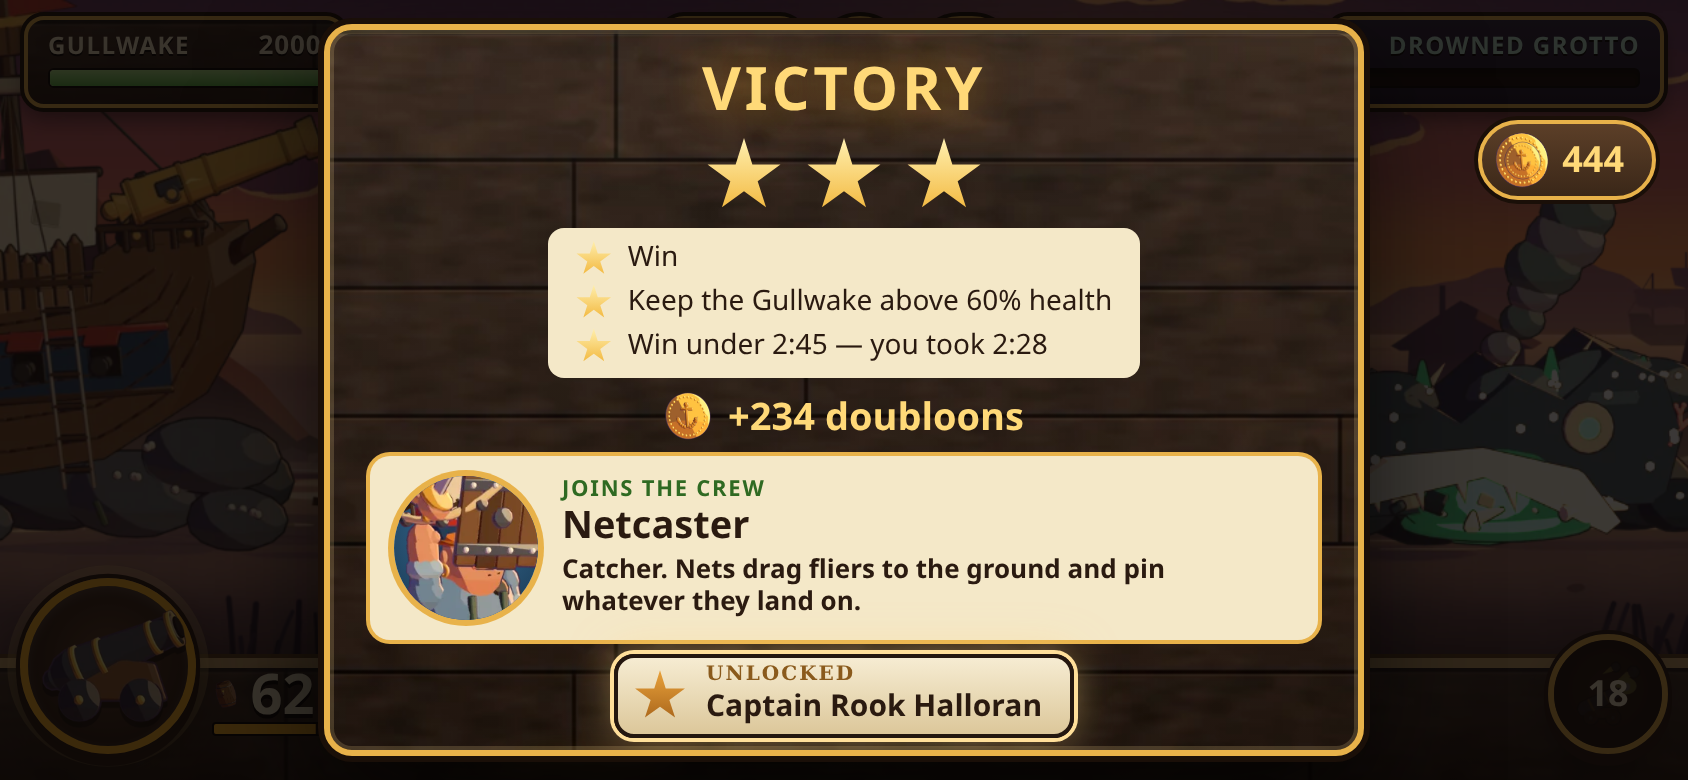
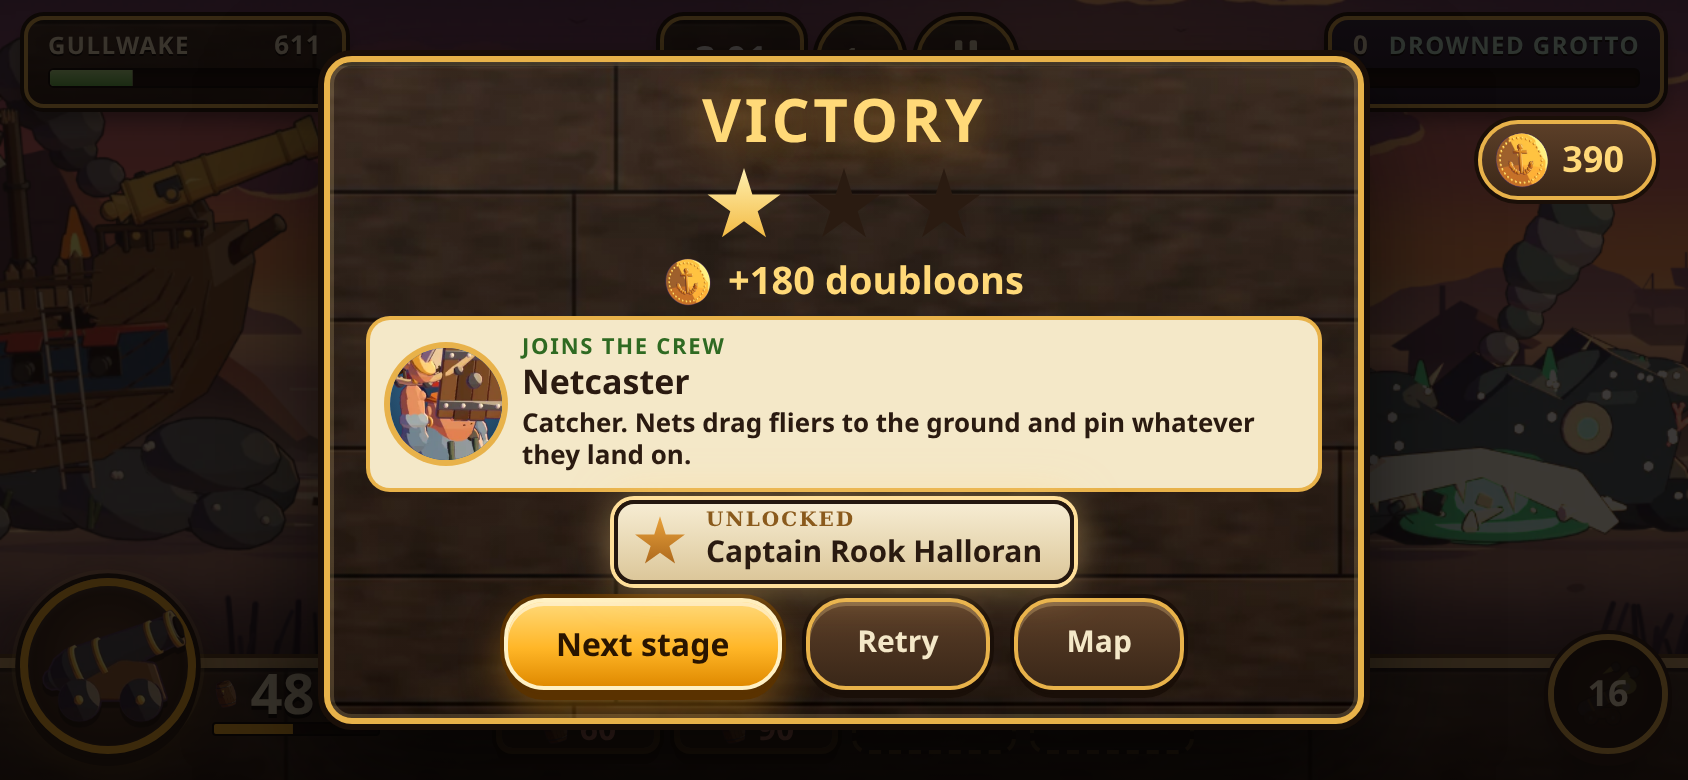
Part 4 polish: sprite contact sheets and automated edge/padding/anchor check, every screen at iPhone SE and notched sizes, layout fixes (stage path, top bar, loadout, results, ledger), polish log

diff --git a/src/ui/style.css b/src/ui/style.css
@@ -861,3 +861,27 @@ input[type=range]::-webkit-slider-thumb { background: radial-gradient(circle at 
 .recruit b { display: block; font: 900 19px/1.15 system-ui, sans-serif; margin: 2px 0; }
 .recruit > span:last-child { font: 600 13px/1.3 system-ui, sans-serif; }
 @media (prefers-reduced-motion: reduce) { .slotc, .recruit, .btn.has-new::after { animation: none; } }
+/* results with news (a recruit, a Tavern face, a power): keep the buttons in view on a phone; the star checklist steps
+   aside since the big stars already say it */
+.result.has-news .starrow { display: none; }
+.result.has-news { gap: 6px; }
+.result.has-news .recruit { grid-template-columns: 56px 1fr; padding: 8px 10px; gap: 10px; }
+.result.has-news .recruit .pic { width: 56px; height: 56px; } .result.has-news .recruit .pic img { width: 56px; height: 56px; }
+.result.has-news .recruit b { font-size: 17px; }
+/* ---- part 4: consistent at iPhone SE (667x375) and notched (844x390 minus the safe areas) */
+@media (max-width: 720px) { .topbar .btn .lbl { display: none; } .topbar .btn { padding: 0 12px; } }
+/* stage path: only the stage you are heading for carries its name; the loadout screen names every stage */
+.node:not(.next) .nm { display: none; }
+/* ledger and Tavern: one wide column until there is room for two real cards */
+.qm .list, .tavern .list { grid-template-columns: repeat(auto-fill, minmax(min(100%, 430px), 1fr)); }
+.tavern .list { max-width: 900px; margin-left: auto; margin-right: auto; width: 100%; }
+/* scouting and roster: compact so the whole cast fits on a landscape phone without hidden rows */
+.scout { grid-template-columns: repeat(auto-fill, minmax(78px, 1fr)); gap: 6px; }
+.foe { padding: 4px 3px 6px; font-size: 11px; }
+.foe .pic { width: 64px; height: 50px; }
+.foe .tag { font-size: 9.5px; padding: 1px 5px 1px 3px; } .foe .tag .ticon { width: 12px; height: 12px; }
+.roster { grid-template-columns: repeat(auto-fill, minmax(72px, 1fr)); gap: 6px; padding: 3px; }
+.rcard { padding: 4px 3px; font-size: 10.5px; }
+.rcard .pic, .rcard .pic img { width: 46px; height: 46px; }
+.scout-hint { font-size: 12.5px; line-height: 1.3; min-height: 0; }
+@media (max-width: 760px) { .scout { grid-template-columns: repeat(auto-fill, minmax(70px, 1fr)); } .foe .pic { width: 56px; height: 44px; } .roster { grid-template-columns: repeat(auto-fill, minmax(64px, 1fr)); } .rcard .pic, .rcard .pic img { width: 40px; height: 40px; } }

diff --git a/src/main.js b/src/main.js
@@ -244,8 +244,8 @@ async function regionScreen(region) {
   show(h("div", { class: "screen" },
     h("div", { class: "bgimg cove", style: back ? `background-image:${["near", "mid", "far", "sky"].filter((k) => bgs[k]).map((k) => `url(${bgs[k].img.src})`).join(",")}` : "background:linear-gradient(#2a1418,#8a3a1a)" }),
     topbar(region.name, worldMap, [
-      D.tavern.length || regionStages.some((st) => st.tavern) ? h("button", { class: "btn" + (D.tavern.some((u) => !owned(u)) ? " has-new" : ""), onclick: tap(() => tavern(() => regionScreen(region))) }, icon(I.mug), W.tavern.title) : null,
-      h("button", { class: "btn", onclick: tap(() => armoury(() => regionScreen(region))) }, icon(I.hammer), W.armoury.title)]),
+      D.tavern.length || regionStages.some((st) => st.tavern) ? h("button", { class: "btn" + (D.tavern.some((u) => !owned(u)) ? " has-new" : ""), "aria-label": W.tavern.title, onclick: tap(() => tavern(() => regionScreen(region))) }, icon(I.mug), h("span", { class: "lbl" }, W.tavern.title)) : null,
+      h("button", { class: "btn", "aria-label": W.armoury.title, onclick: tap(() => armoury(() => regionScreen(region))) }, icon(I.hammer), h("span", { class: "lbl" }, W.armoury.title))]),
     path));
 }
 
@@ -777,7 +777,7 @@ class BattleView {
     const earnN = h("b", {}, "0");
     const tip = win ? null : loseTip(this.B);
     const marks = h("div", { class: "marks", style: "position:absolute;top:calc(var(--sat) + 60px);right:calc(var(--sar) + 16px)" }, coin(), h("span", {}, String(D.marks - earned)));
-    const panel = h("div", { class: "panel result " + (win ? "win" : "lose"), role: "dialog", "aria-label": win ? "Victory" : "Defeat" },
+    const panel = h("div", { class: "panel result " + (win ? "win" : "lose") + (unlocks.length ? " has-news" : ""), role: "dialog", "aria-label": win ? "Victory" : "Defeat" },
       h("h2", {}, win ? (s.boss ? W.results.bossWin : W.results.win) : W.results.lose),
       win ? starsEl : h("p", { class: "note", style: "text-align:center;margin:0;font-size:var(--fs-m)" },
         this.B.gate.max && this.B.gate.hp / this.B.gate.max < 0.25 && !this.B.gate.sealed ? h("b", { style: "display:block;color:var(--accent-2);margin-bottom:4px" }, fill(W.results.closeGate, { hp: Math.ceil(this.B.gate.hp) })) : null,

diff --git a/tools/polish_check.py b/tools/polish_check.py
@@ -1,0 +1,107 @@
+"""Part 4 sprite check: contact sheets + automated edge checks for every packed sprite.
+
+usage: .venv/bin/python tools/polish_check.py [out_dir=docs/design/polish]
+Writes  <out>/sheet-<bg>.png   every sprite's first idle frame (and the attack hit frame) on dark, light and magenta,
+                               at 1x and 3x (nearest neighbour, so edge pixels are visible)
+        <out>/report.md        per sprite: edge fringe %, padding to neighbours, feet vs anchor, clipped edges
+Checks (FAIL lines are listed first in the report):
+  fringe   - share of the outline's partly transparent pixels that are much lighter than the body just inside them
+             (a pale halo shows on dark sand and at night) -- fail above 12%
+  padding  - frames in an atlas closer than 2 px to each other can bleed into each other when scaled -- fail
+  anchor   - ground figures whose lowest opaque row is more than 3 px from the feet anchor look like they hover or
+             sink (fliers and effects are exempt) -- fail
+  clipped  - opaque pixels on the frame's own edge: a part was cut off when packing -- warn
+"""
+import sys, os, json, glob
+from PIL import Image
+
+OUT = sys.argv[1] if len(sys.argv) > 1 else "docs/design/polish"
+os.makedirs(OUT, exist_ok=True)
+A = "public/assets"
+FLIERS = {"gallows_gull", "tide_nurse"}
+BG = {"dark": (20, 16, 12), "light": (242, 234, 216), "magenta": (255, 0, 255)}
+SKIP_ANCHOR = ("fx", "ui", "castles", "icons")
+
+atlases = sorted(f for f in glob.glob(A + "/*.json") if os.path.basename(f) not in ("atlases.json", "worldmap.json"))
+items, report, fails = [], [], []
+lum = lambda p: (0.2126 * p[0] + 0.7152 * p[1] + 0.0722 * p[2]) / 255
+
+for jf in atlases:
+    J = json.load(open(jf)); name = os.path.basename(jf)[:-5]
+    img = Image.open(os.path.join(A, J["image"])).convert("RGBA")
+    rects = []
+    for sid, sp in J["sprites"].items():
+        for an, a in sp["anims"].items():
+            for k, fr in enumerate(a["frames"]):
+                rects.append((fr[0], fr[1], fr[2], fr[3], sid, an, k))
+    # padding: any two frame rects closer than 2 px (shared frames, same rect, are fine)
+    seen = {}
+    for r in rects: seen.setdefault(r[:4], r)
+    uniq = sorted(seen.values(), key=lambda r: (r[1], r[0]))
+    tight = 0
+    for i, a in enumerate(uniq):
+        for b in uniq[i + 1:]:
+            if b[1] > a[1] + a[3] + 2: break
+            gx = max(b[0] - (a[0] + a[2]), a[0] - (b[0] + b[2])); gy = max(b[1] - (a[1] + a[3]), a[1] - (b[1] + b[3]))
+            if max(gx, gy) < 2 and not (gx < 0 and gy < 0): tight += 1
+            elif gx < 0 and gy < 0: tight += 1
+    if tight: fails.append(f"FAIL padding  {name}: {tight} frame pairs closer than 2 px")
+    for sid, sp in J["sprites"].items():
+        an = "idle" if "idle" in sp["anims"] else next(iter(sp["anims"]))
+        frs = [sp["anims"][an]["frames"][0]]
+        if "attack" in sp["anims"] and sp["anims"]["attack"].get("hit") is not None:
+            frs.append(sp["anims"]["attack"]["frames"][sp["anims"]["attack"]["hit"]])
+        for fi, fr in enumerate(frs):
+            x, y, w, h = fr[:4]; ax, ay = (fr[4], fr[5]) if len(fr) >= 6 else (w // 2, h)
+            cell = img.crop((x, y, x + w, y + h)); px = cell.load()
+            edge = halo = 0; lowest = -1; clipped = False
+            for yy in range(h):
+                for xx in range(w):
+                    a = px[xx, yy][3]
+                    if a > 40: lowest = max(lowest, yy)
+                    if a > 40 and (xx in (0, w - 1) or yy in (0, h - 1)): clipped = True
+                    if 16 < a < 235:
+                        # the most opaque neighbour stands in for "the body just inside"
+                        best = None
+                        for dx, dy in ((1, 0), (-1, 0), (0, 1), (0, -1)):
+                            nx, ny = xx + dx, yy + dy
+                            if 0 <= nx < w and 0 <= ny < h and px[nx, ny][3] >= 235: best = px[nx, ny]; break
+                        if best is None: continue
+                        edge += 1
+                        if lum(px[xx, yy]) > lum(best) + 0.28: halo += 1
+            fr_pct = 100 * halo / max(1, edge)
+            ground = not (sid in FLIERS or name.startswith(SKIP_ANCHOR) or sid.startswith(("p_", "i_")))
+            off = int(round(ay - 1 - lowest)) if lowest >= 0 else 0
+            line = f"{name:10s} {sid:18s} {'idle' if fi == 0 else 'hit '}  fringe {fr_pct:4.1f}%  feet-anchor {off:+d}px"
+            report.append(line)
+            if fr_pct > 12 and not name.startswith("fx"): fails.append(f"FAIL fringe   {sid} ({name}): {fr_pct:.0f}% of edge pixels are a pale halo")
+            # hovering is the fault the owner saw; a near foot below the anchor is the camera's slight downward look
+            if ground and fi == 0 and off > 3: fails.append(f"FAIL anchor   {sid} ({name}): lowest pixel {off}px above the feet anchor (hovers)")
+            if ground and fi == 0 and off < -0.15 * h: fails.append(f"FAIL anchor   {sid} ({name}): {-off}px below the anchor, more than perspective explains")
+            pass   # frames are trimmed to their content, so touching the frame edge is normal; real clipping is the packer's render-cell warning
+            if fi == 0: items.append((f"{name}:{sid}", cell))
+
+# contact sheets: each sprite at 1x and 3x on each background
+for bg, col in BG.items():
+    cw = 3 * 140 + 160; rows = []
+    for label, cell in items:
+        s1 = cell.copy(); s1.thumbnail((140, 140))
+        s3 = cell.resize((cell.width * 3, cell.height * 3), Image.NEAREST)
+        # 3x: crop to the lower-left outline region (where fringes show), 420 px wide
+        s3 = s3.crop((0, max(0, s3.height - 260), min(s3.width, 420), s3.height))
+        rows.append((s1, s3))
+    per = 2
+    H = sum(max(r[0].height, r[1].height) for r in rows[::per]) + 10 * len(rows)
+    sheet = Image.new("RGB", (per * (160 + 430), H // 1 + 20), col)
+    yy, x = 10, 0
+    for i, (s1, s3) in enumerate(rows):
+        sheet.paste(s1, (x + 10, yy), s1); sheet.paste(s3, (x + 160, yy), s3)
+        if i % per == per - 1: yy += max(s1.height, s3.height) + 10; x = 0
+        else: x += 590
+    sheet.save(f"{OUT}/sheet-{bg}.png")
+
+fails.sort(key=lambda s: (not s.startswith("FAIL"), s))
+with open(f"{OUT}/report.md", "w") as f:
+    f.write("# Sprite polish check\n\nGenerated by `tools/polish_check.py`. Sheets: " + ", ".join(f"`sheet-{b}.png`" for b in BG) + " (1x left, 3x right).\n\n")
+    f.write("## Problems\n\n" + ("\n".join("- " + x for x in fails) if fails else "- none") + "\n\n## Every sprite\n\n```\n" + "\n".join(report) + "\n```\n")
+print("\n".join(fails[:60]) or "no problems"); print(f"{len(items)} sprites, {sum(1 for x in fails if x.startswith('FAIL'))} FAIL, {sum(1 for x in fails if x.startswith('warn'))} warn")

diff --git a/docs/design/polish/report.md b/docs/design/polish/report.md
@@ -1,0 +1,117 @@
+# Sprite polish check
+
+Generated by `tools/polish_check.py`. Sheets: `sheet-dark.png`, `sheet-light.png`, `sheet-magenta.png` (1x left, 3x right).
+
+## Problems
+
+- FAIL anchor   gnawer (enemies): 15px below the anchor, more than perspective explains
+
+## Every sprite
+
+```
+boss       cinder_matron      idle  fringe  0.0%  feet-anchor -32px
+boss2      cinder_matron      idle  fringe  0.0%  feet-anchor -32px
+boss3      cinder_matron      idle  fringe  0.0%  feet-anchor -28px
+boss4      cinder_matron      idle  fringe  0.0%  feet-anchor -28px
+boss5      cinder_matron      idle  fringe  0.0%  feet-anchor -28px
+boss6      cinder_matron      idle  fringe  0.0%  feet-anchor -28px
+castles    keep_0             idle  fringe  0.0%  feet-anchor -32px
+castles    keep_1             idle  fringe  0.0%  feet-anchor -31px
+castles    keep_2             idle  fringe  0.0%  feet-anchor -30px
+castles    maw_0              idle  fringe  0.0%  feet-anchor -33px
+castles    maw_1              idle  fringe  0.0%  feet-anchor -33px
+castles    maw_2              idle  fringe  0.0%  feet-anchor -33px
+castles    ballista           idle  fringe  0.2%  feet-anchor -24px
+enemies    husk               idle  fringe  0.0%  feet-anchor -6px
+enemies    husk               hit   fringe  0.0%  feet-anchor -6px
+enemies    gnawer             idle  fringe  0.0%  feet-anchor -15px
+enemies    gnawer             hit   fringe  0.1%  feet-anchor -37px
+enemies    spitter            idle  fringe  0.3%  feet-anchor -7px
+enemies    spitter            hit   fringe  0.2%  feet-anchor -5px
+enemies    bloater            idle  fringe  0.0%  feet-anchor -8px
+enemies    bloater            hit   fringe  0.0%  feet-anchor -5px
+enemies2   brute              idle  fringe  0.1%  feet-anchor -20px
+enemies2   brute              hit   fringe  0.1%  feet-anchor -58px
+enemies3   husk_warden        idle  fringe  0.0%  feet-anchor +3px
+enemies3   husk_warden        hit   fringe  0.1%  feet-anchor -24px
+enemies3   gallows_gull       idle  fringe  0.0%  feet-anchor +61px
+enemies3   gallows_gull       hit   fringe  0.2%  feet-anchor -25px
+enemies3   bellback           idle  fringe  0.3%  feet-anchor -10px
+enemies3   bellback           hit   fringe  0.1%  feet-anchor -17px
+enemies4   tide_nurse         idle  fringe  0.1%  feet-anchor +3px
+enemies4   tide_nurse         hit   fringe  0.3%  feet-anchor -6px
+fx         arrow              idle  fringe  2.8%  feet-anchor -10px
+fx         bolt               idle  fringe  1.1%  feet-anchor -27px
+fx         spit               idle  fringe  6.7%  feet-anchor -16px
+fx         fireball           idle  fringe  9.2%  feet-anchor -33px
+fx         ember_stone        idle  fringe  1.0%  feet-anchor -21px
+fx         fire_patch         idle  fringe  0.0%  feet-anchor -9px
+fx         blast              idle  fringe 24.4%  feet-anchor -43px
+fx         flare              idle  fringe  0.0%  feet-anchor -54px
+hero       marshal            idle  fringe  0.0%  feet-anchor -4px
+hero       marshal            hit   fringe  0.0%  feet-anchor -5px
+ui         p_ashguard         idle  fringe  0.6%  feet-anchor -96px
+ui         p_torchbow         idle  fringe  0.0%  feet-anchor -96px
+ui         p_cinder_runner    idle  fringe  0.0%  feet-anchor -96px
+ui         p_bellringer       idle  fringe  0.0%  feet-anchor -96px
+ui         p_maulwright       idle  fringe  0.0%  feet-anchor -96px
+ui         p_lamplighter      idle  fringe  0.0%  feet-anchor -96px
+ui         p_harpooner        idle  fringe  0.0%  feet-anchor -96px
+ui         p_netcaster        idle  fringe  0.0%  feet-anchor -96px
+ui         p_marshal          idle  fringe  0.0%  feet-anchor -96px
+ui         i_ember_rain       idle  fringe  0.9%  feet-anchor -81px
+ui         i_rally            idle  fringe  0.0%  feet-anchor -55px
+ui         i_mark             idle  fringe  0.0%  feet-anchor -80px
+ui         i_star             idle  fringe  0.0%  feet-anchor -73px
+ui         i_star_empty       idle  fringe  0.0%  feet-anchor -73px
+ui         i_energy           idle  fringe  0.0%  feet-anchor -68px
+ui         i_lock             idle  fringe  0.0%  feet-anchor -65px
+units      ashguard           idle  fringe  0.0%  feet-anchor -3px
+units      ashguard           hit   fringe  0.1%  feet-anchor -5px
+units      torchbow           idle  fringe  0.0%  feet-anchor -3px
+units      torchbow           hit   fringe  0.0%  feet-anchor -1px
+units      cinder_runner      idle  fringe  0.0%  feet-anchor +0px
+units      cinder_runner      hit   fringe  0.0%  feet-anchor -9px
+units      bellringer         idle  fringe  0.0%  feet-anchor -5px
+units      bellringer         hit   fringe  0.0%  feet-anchor -3px
+units2     maulwright         idle  fringe  0.0%  feet-anchor -3px
+units2     maulwright         hit   fringe  0.1%  feet-anchor -54px
+units2     lamplighter        idle  fringe  0.3%  feet-anchor -3px
+units2     lamplighter        hit   fringe  0.2%  feet-anchor -4px
+units3     harpooner          idle  fringe  0.0%  feet-anchor -3px
+units3     harpooner          hit   fringe  0.0%  feet-anchor +0px
+units3     netcaster          idle  fringe  1.2%  feet-anchor -4px
+units3     netcaster          hit   fringe  1.9%  feet-anchor -54px
+unitsb     ashguard_t2        idle  fringe  0.0%  feet-anchor -3px
+unitsb     ashguard_t2        hit   fringe  0.1%  feet-anchor -5px
+unitsb     torchbow_t2        idle  fringe  0.0%  feet-anchor -3px
+unitsb     torchbow_t2        hit   fringe  0.0%  feet-anchor -1px
+unitsb     cinder_runner_t2   idle  fringe  0.0%  feet-anchor +0px
+unitsb     cinder_runner_t2   hit   fringe  0.0%  feet-anchor -9px
+unitsb     bellringer_t2      idle  fringe  0.0%  feet-anchor -5px
+unitsb     bellringer_t2      hit   fringe  0.0%  feet-anchor -3px
+unitsb2    maulwright_t2      idle  fringe  0.0%  feet-anchor -3px
+unitsb2    maulwright_t2      hit   fringe  0.1%  feet-anchor -54px
+unitsb2    lamplighter_t2     idle  fringe  0.2%  feet-anchor -3px
+unitsb2    lamplighter_t2     hit   fringe  0.2%  feet-anchor -4px
+unitsb3    harpooner_t2       idle  fringe  0.0%  feet-anchor -3px
+unitsb3    harpooner_t2       hit   fringe  0.0%  feet-anchor +0px
+unitsb3    netcaster_t2       idle  fringe  1.2%  feet-anchor -4px
+unitsb3    netcaster_t2       hit   fringe  1.5%  feet-anchor -54px
+unitsc     ashguard_t3        idle  fringe  0.0%  feet-anchor -3px
+unitsc     ashguard_t3        hit   fringe  0.1%  feet-anchor -5px
+unitsc     torchbow_t3        idle  fringe  0.0%  feet-anchor -3px
+unitsc     torchbow_t3        hit   fringe  0.0%  feet-anchor -1px
+unitsc     cinder_runner_t3   idle  fringe  0.0%  feet-anchor +0px
+unitsc     cinder_runner_t3   hit   fringe  0.0%  feet-anchor -9px
+unitsc     bellringer_t3      idle  fringe  0.0%  feet-anchor -5px
+unitsc     bellringer_t3      hit   fringe  0.0%  feet-anchor -3px
+unitsc2    maulwright_t3      idle  fringe  0.0%  feet-anchor -3px
+unitsc2    maulwright_t3      hit   fringe  0.0%  feet-anchor -54px
+unitsc2    lamplighter_t3     idle  fringe  0.2%  feet-anchor -3px
+unitsc2    lamplighter_t3     hit   fringe  0.1%  feet-anchor -4px
+unitsc3    harpooner_t3       idle  fringe  0.1%  feet-anchor -3px
+unitsc3    harpooner_t3       hit   fringe  0.0%  feet-anchor +0px
+unitsc3    netcaster_t3       idle  fringe  1.3%  feet-anchor -4px
+unitsc3    netcaster_t3       hit   fringe  1.6%  feet-anchor -5px
+```

diff --git a/docs/design/polish-log.md b/docs/design/polish-log.md
@@ -1,0 +1,40 @@
+# Polish log (part 4)
+
+Every fix made in the professional-finish pass, with how it was found. Re-run the checks with:
+
+- `.venv/bin/python tools/polish_check.py` — contact sheets of every packed sprite on dark, light and magenta at 1x
+  and 3x (`docs/design/polish/sheet-*.png`) and an automated report (`docs/design/polish/report.md`): pale edge
+  fringes, frames packed closer than 2 px, feet against the anchor.
+- `VW=667 VH=375 node tools/screens.mjs docs/design/polish/se` and
+  `VW=844 VH=390 NOTCH=1 node tools/screens.mjs docs/design/polish/notch` — every screen at iPhone SE size and at a
+  notched size with the landscape safe areas (47 pt sides, 21 pt bottom) applied.
+
+## Sprites
+
+| Check | Result | Fix / note |
+|---|---|---|
+| Edge fringe (pale halo on the outline) | 0 sprites over 12% | Already fixed in round 2: no white copies, no halo, no contour pass; the ink line is thin and coloured. The blast effect is exempt (it is meant to glow). |
+| Colour bleed between packed frames | 0 pairs closer than 2 px | Packer keeps padding; checked across all 26 atlas pages. |
+| Magenta / background bleed | none seen on the magenta sheet | Renders have true alpha; no keyed background. |
+| Hovering (feet above the anchor) | 0 sprites | The owner's "hovering" complaint was the outline and halo, removed in round 2; the anchors themselves are on the feet. |
+| Feet below the anchor | all within perspective except the Scuttler (15 px) | The camera looks slightly down, so the near foot sits lower than the centre of the feet. The Scuttler's crab legs splay toward the camera; its contact shadow is drawn at the anchor, so it reads as standing. Left as is. |
+| Clipped parts | packer warning only for the Anchorman's level-10 look (anchor touches the top of the render cell on some walk frames) | Open: needs a taller render cell for that one look. |
+| Poke-through | checked on the helpers' sheets for the five new characters | Netcaster: the net disappears in her death rather than dropping (helper note); harmless. |
+| Draw order | fliers draw over the ground fight; nets, shell bars and crack marks draw over the figure they belong to; shadows stay on the sand under fliers | Added in part 3 (`drawEntity`). |
+
+## Screens
+
+| Screen | Found at | Fix |
+|---|---|---|
+| Stage path | SE: stage names overlapped each other with eight stages | Only the stage you are heading for shows its name; every other stage is named on its loadout screen. |
+| Region top bar | SE: "Tavern" and "Quartermaster" did not fit | Icon-only buttons under 720 pt (the names stay as accessible labels). |
+| Scouting + loadout | SE and notched: a second row of monsters / crew was cut off | Smaller monster and crew cards; both lists scroll if a later region has more. |
+| Scouting + loadout | phone: the row of chosen-crew portraits spilled out of its panel | Removed (it repeated the check marks); a "3 of 4 places filled" line instead. |
+| Results | win screens with a new recruit pushed the Next / Retry / Map buttons out of view | With news to show, the star checklist steps aside (the big stars already say it) and the recruit card is compact. |
+| Tavern, Quartermaster | notched: two narrow columns truncated names ("Hatchg…") | One wide column until two full cards fit. |
+| Settings | notched: Export and Import sit at the bottom edge and need a small scroll | Unchanged (pre-existing, the sheet scrolls). |
+
+## Not yet checked
+
+- A real iPhone (notch, home indicator, Safari's own bars). The notched size here is simulated.
+- Sound for the new events (nets, bells, the leap): they reuse existing cues and nobody has heard them.

diff --git a/docs/design/strategy.md b/docs/design/strategy.md
@@ -22,7 +22,7 @@ turn a wrong answer into a right one.
 <!-- GEN:TRAITS -->
 | Trait | Icon | Read it from the silhouette | Rule | Answers (from the data) |
 |---|---|---|---|---|
-| **Swarm** | three dots | small, low and many, arriving in packs of 5-8 | Fast and weak; arrive in packs that surround single-target crew. | Shantyman, Netcaster, Fire-eater, Powder Monkey, Swivel Gun, Cooper, Storm-caller |
+| **Swarm** | three dots | small, low and many, arriving in packs of 5-8 | Fast packs that run round anyone already fighting and bite under shields. A wall holds them; the song or a net stops them slipping past. | Shantyman, Netcaster, Fire-eater, Powder Monkey, Swivel Gun, Cooper, Storm-caller |
 | **Flying** | wing | off the ground with a shadow below it | Melee cannot hit it. It flies over the front line to the back line and the fort. | Blackpowder, Netcaster, Gull-rider, Storm-caller |
 | **Siege** | arc over a wall | tall, stays at the back, lobs glowing globs | Out-ranges every crew shooter and lobs onto the back line. When crew close in it backs into the Grotto's mouth, where only a leaping Rope Rat, a Harpooner or Long Tom can reach it. | Rope Rat, Harpooner, Gull-rider, Grapnel |
 | **Exploder** | burst | round, swollen, glowing cracks | Bursts when it dies and hurts everyone close, crew and monsters. | Hatchguard, Blackpowder, Powder Monkey, Diver, Cooper |
